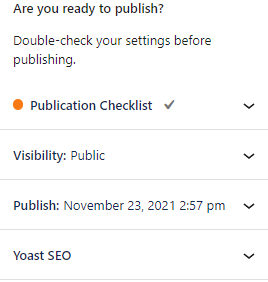
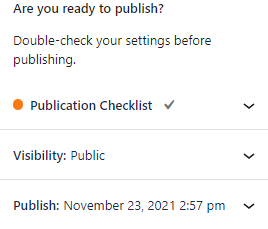
Remove Yoast SEO releated functionality.

diff --git a/user-docs/content-and-content-blocks/README.md b/user-docs/content-and-content-blocks/README.md
@@ -83,34 +83,6 @@ Moves the post to the Trash. The post will stay there for 30 days by default bef
 - Clone
 - Restore
 
-## Yoast SEO
-
-This is the powerful all-in-one **SEO plugin** built for WordPress. 
-
-![](../assets/content-creation-image53.png)
-
-### Readability analysis
-
-Yoast scans your text to see if it’s **easy to read** and gives you feedback. Its algorithm checks things like whether you’re using complicated words, long sentences, active vs passive voice. It then gives you a rating and recommendations for improvement. Kind of like a helpful assistant.
-
-For the full analysis, click the **Readability** tab under your post:
-
-![](../assets/content-creation-image13.png)
-
-Want to give your post a better chance of being found and ranked by search engines? Click **Improve your post with Yoast SEO**:
-
-![](../assets/content-creation-image37.png)
-
-Enter a word or phrase you want the post to be found for in **search engines**:
-
-![](../assets/content-creation-image44.png)
-
-Click the **? icon** for advice on this. Then click Get **related keyphrases**. You may be asked to login or register with Semrush. Click **Approve**: 
-
-![](../assets/content-creation-image2.png)
-
-This gives you lots of keyphrases you can add to your content. 
-
 ## Permalinks
 
 ![](../assets/content-creation-image49.png)
@@ -356,10 +328,11 @@ After you’ve created your content, you can either click to:
     See how your content will look on **desktop**, **mobile** or **tablet**
     ![](../assets/content-creation-image66.png)
 - **Publish**
-- Click to publish your content immediately. This opens up the visibility settings, options to change the publish date and time of
-publication, and Yoast analysis
+- Click to publish your content immediately. This opens up the visibility settings and options to change the publish date and time of
+publication.
 
   ![](../assets/content-creation-image45.png)
+
 - **Settings**
 
     ![](../assets/content-creation-image22.png)
@@ -375,7 +348,6 @@ Congratulations! Your content is out there, ready to go viral, inspire and conve
 You can now:
 - View the content
 - Copy its link
-- spread the word on social media (if you’ve set these up in Yoast)
 
 ### How to unpublish content
 

diff --git a/user-docs/collaboration-and-users/managing-roles.md b/user-docs/collaboration-and-users/managing-roles.md
@@ -30,7 +30,7 @@ Permissions are related to the [Role](roles-and-permissions.md).
 
 ## Role permissions
 
-### Super Administrator 
+### Super Administrator
 
 This role has the broadest level of permissions across your entire network. They can do everything on each of your [websites](../administration/multisite.md). For security reasons it’s best to limit this role to as few people as necessary.
 
@@ -53,15 +53,3 @@ Contributors can write and manage their own posts – but can’t publish or upl
 ### Subscriber
 
 This role can manage their own profile on a website. They can also access private content to read and/or leave comments, but can’t create content. This is the most limited set of permissions, often suitable when you only want to give a user permission to login and view content. 
-
-### SEO role permissions
-
-The Yoast plugin powers the Altis SEO module. That’s why you get two extra roles for SEO-related functions. Both are useful if you’re using an external SEO agency. Where you want to limit their permissions to the rest of the site. Each role has different permissions for configuring and improving your site’s search engine visibility and ranking:
-
-#### SEO Manager
-
-Has full permissions within the Yoast plugin, including editing the plugin settings.
-
-SEO Editor
-
-Permissions are limited to managing SEO content (such as meta titles and descriptions) in pages and posts.

diff --git a/other-docs/guides/upgrading/v14-part3.md b/other-docs/guides/upgrading/v14-part3.md
@@ -40,3 +40,16 @@ Yoast SEO plugin. Instead you can use the built in functionality provided out of
 the box by WordPress, which is enabled automatically. Additionally, several
 off-the-shelf plugins (including Yoast SEO) provide functionality to enhance or
 replace WordPress' functionality.
+
+#### Yoast SEO Plugin
+
+Altis no longer provides the Yoast SEO plugin. However you can install the
+off-the-shelf plugin in your projects `composer.json` file.
+
+```shell
+## Add the Yoast SEO plugin
+composer require "wppackagist/wordpress-seo"
+```
+
+If you are using the premium version of the plugin, follow
+these [instructions on the Yoast website](https://yoast.com/help/how-to-install-yoast-plugins-using-composer/).

diff --git a/user-docs/collaboration-and-users/roles-and-permissions.md b/user-docs/collaboration-and-users/roles-and-permissions.md
@@ -45,6 +45,6 @@ Guest authors can be attributed to a page or post without having to register or 
 
 ## Roles with plugins
 
-Some plugins can generate additional roles. For example, the SEO plugin Yoast comes with Altis. That’s why there are two extra roles from Yoast: [SEO Editor and SEO Manager](https://yoast.com/seo-roles/):
+Some plugins can generate additional roles. For example, the SEO plugin from Yoast. That’s why there are two extra roles from Yoast:
 
 ![](../assets/roles-and-permissions-image1.png)

diff --git a/user-docs/collaboration-and-users/README.md b/user-docs/collaboration-and-users/README.md
@@ -52,10 +52,3 @@ Let’s start with who you’re collaborating with. Your **users**, and their **
 - Editors can create **Guest Author** accounts
 
 [More on Guests & Multiple Authors](guest-and-multiple-authors.md)
-
-### SEO roles
-
-These roles are for users in charge of getting your content indexed and ranked by search engines. You can give them freedom to edit the **SEO-related settings**. They’re based on the [Yoast definitions](https://yoast.com/seo-roles/) of:
-
-- SEO Manager
-- SEO Editor

diff --git a/user-docs/administration/README.md b/user-docs/administration/README.md
@@ -84,7 +84,6 @@ This opens all the available types of blocks:
 - Design
 - Widgets
 - Embeds
-- Yoast structured data blocks
 
 To add/remove any of these, click the **tick box**. You can remove all the blocks in a category or individual elements within categories:
 
